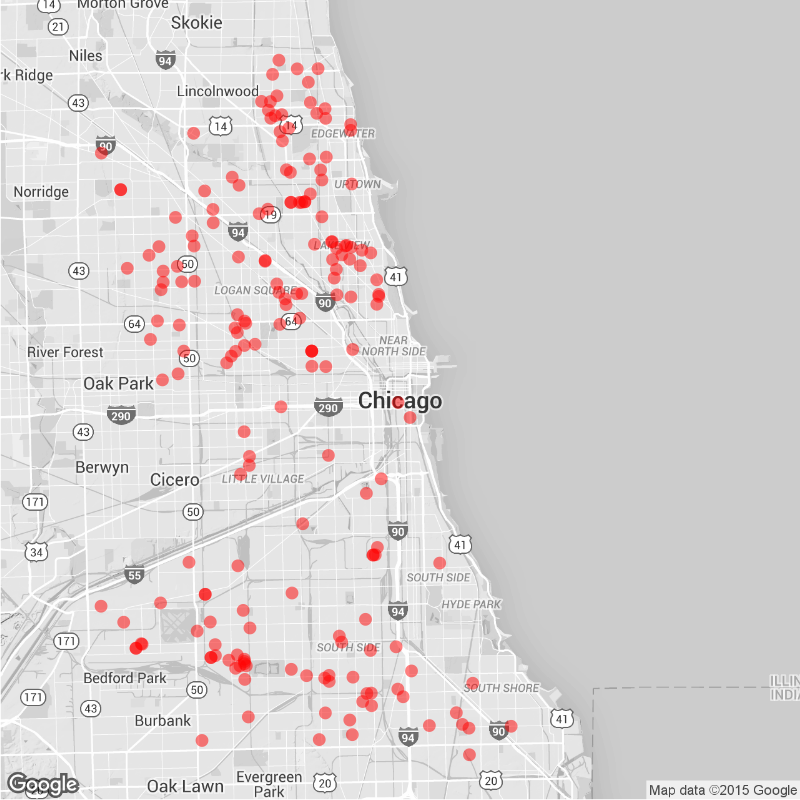
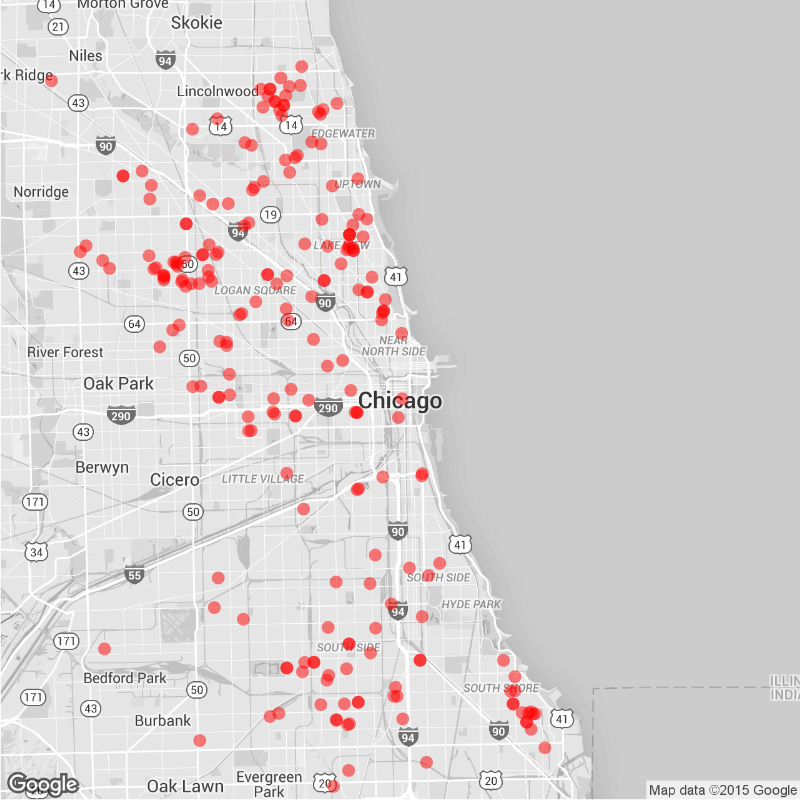
Daily Maps

diff --git a/daily.md b/daily.md
@@ -15,22 +15,22 @@ tags: Chicago NYC weekly daily rats
 
 ### Daily
 
-Yesterday (October 07), there were 199 calls to Chicago's 311 line about rats.
+Yesterday (October 08), there were 218 calls to Chicago's 311 line about rats.
 ![Chicago rat calls to 311 weekly map]({{ site.cityimages }}/daily/Chicago_Rat_Map_Daily.png)
 
 ### Weekly
-Between October 01 and October 07, there were 989 calls to Chicago's 311 line about rats. The average number of weekly calls for this time of year is 725.
+Between October 02 and October 08, there were 1036 calls to Chicago's 311 line about rats. The average number of weekly calls for this time of year is 725.
 ![Chicago rat calls to 311 weekly map]({{ site.cityimages }}/daily/Chicago_Rat_Map_Weekly.png)
 ***
 # New York City <a id="nyc"><a>
 
 ### Daily
 
-Yesterday (October 07), there were 0 calls to New York City's 311 line about rats.
+Yesterday (October 08), there were 0 calls to New York City's 311 line about rats.
 ![NYC rat calls to 311 weekly map]({{ site.cityimages }}/daily/NYC_Rat_Map_Daily.png)
 
 ### Weekly
-Between October 01 and October 07, there were 0 calls to New York City's 311 line about rats. The average number of weekly calls for this time of year is 235.
+Between October 02 and October 08, there were 0 calls to New York City's 311 line about rats. The average number of weekly calls for this time of year is 235.
 ![NYC rat calls to 311 weekly map]({{ site.cityimages }}/daily/NYC_Rat_Map_Weekly.png)
 
 Each red dot represents one call about a rat seen in that location. The dots are transparent, so multiple calls from one location will be seen as a solid dot. The usual caveats apply: more calls do not necessarily mean that there are more rats in that location than other parts of the city. A cluster of dots could indicate that one resident is unusually vocal about rodents in his or her neighborhood. Also, more densely populated neighborhoods tend to make more calls to 311.
